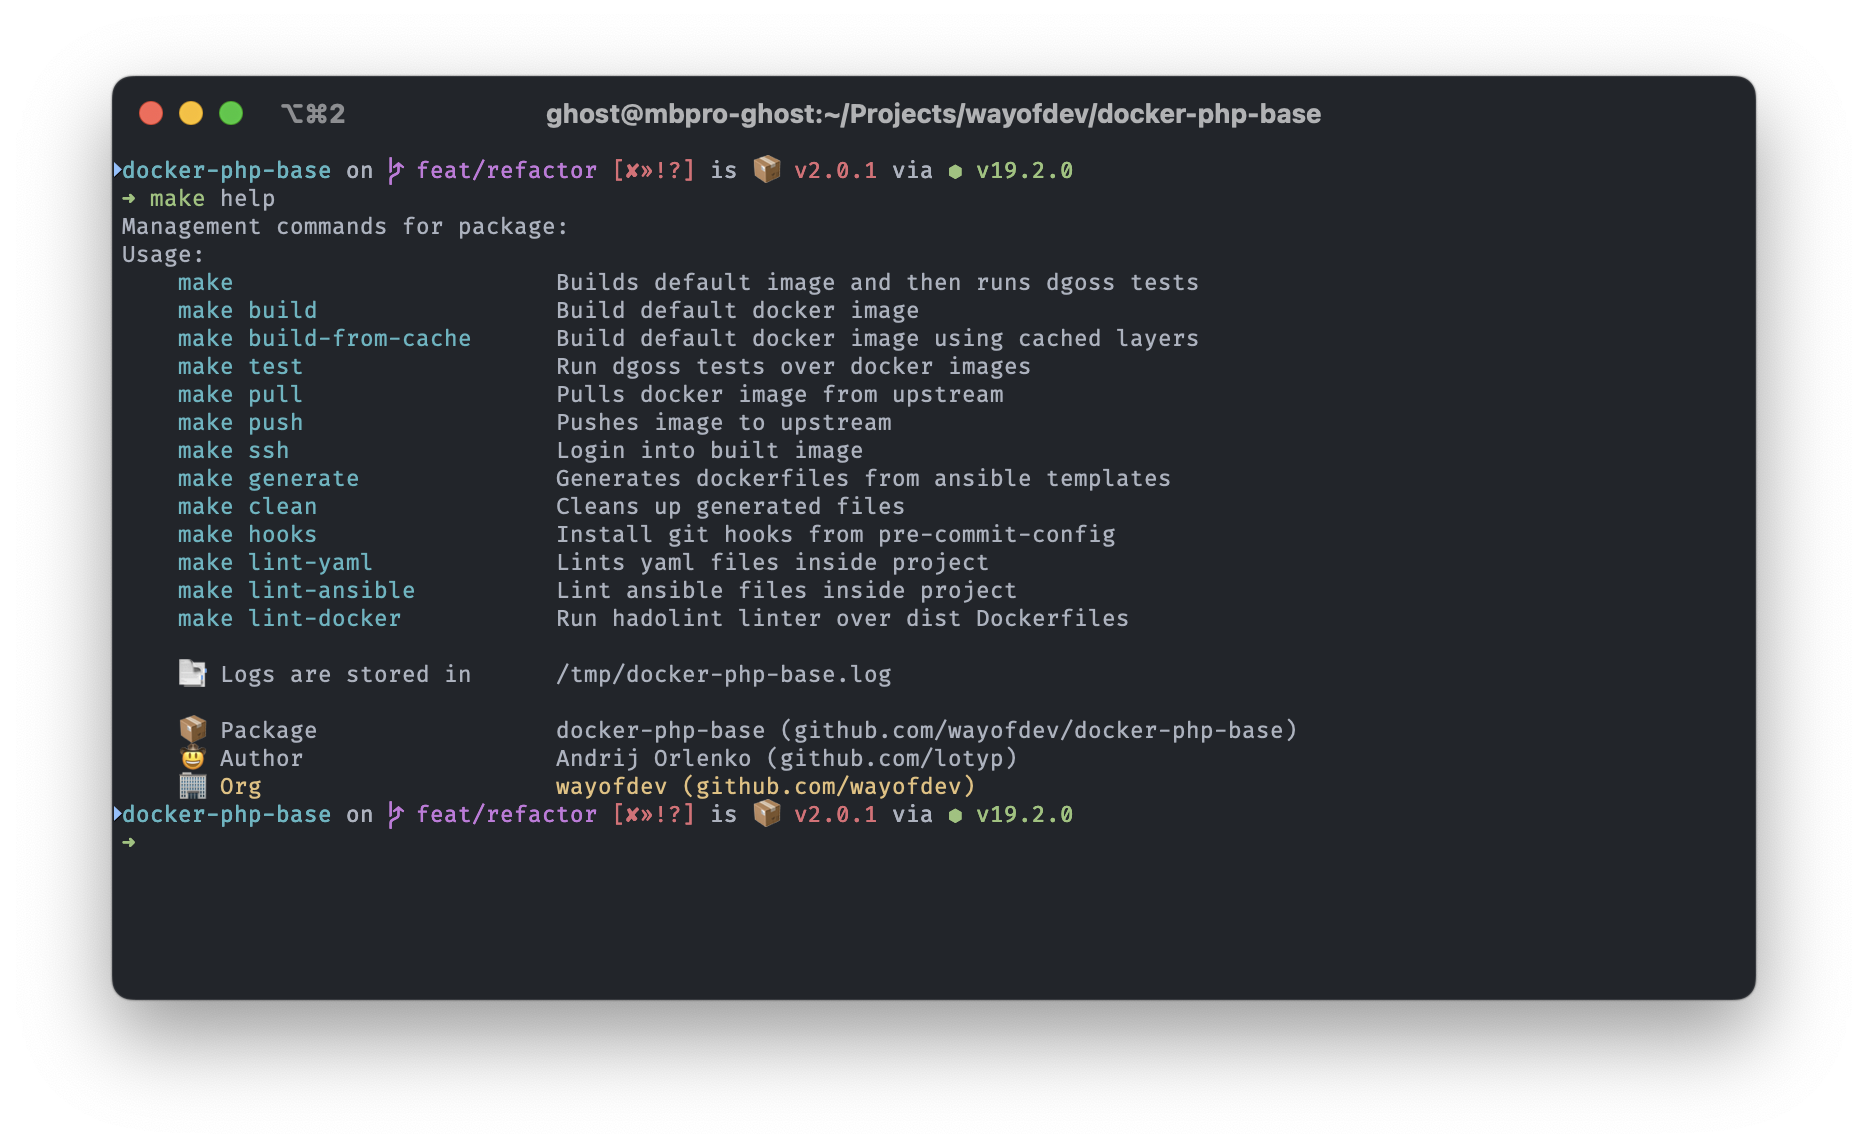
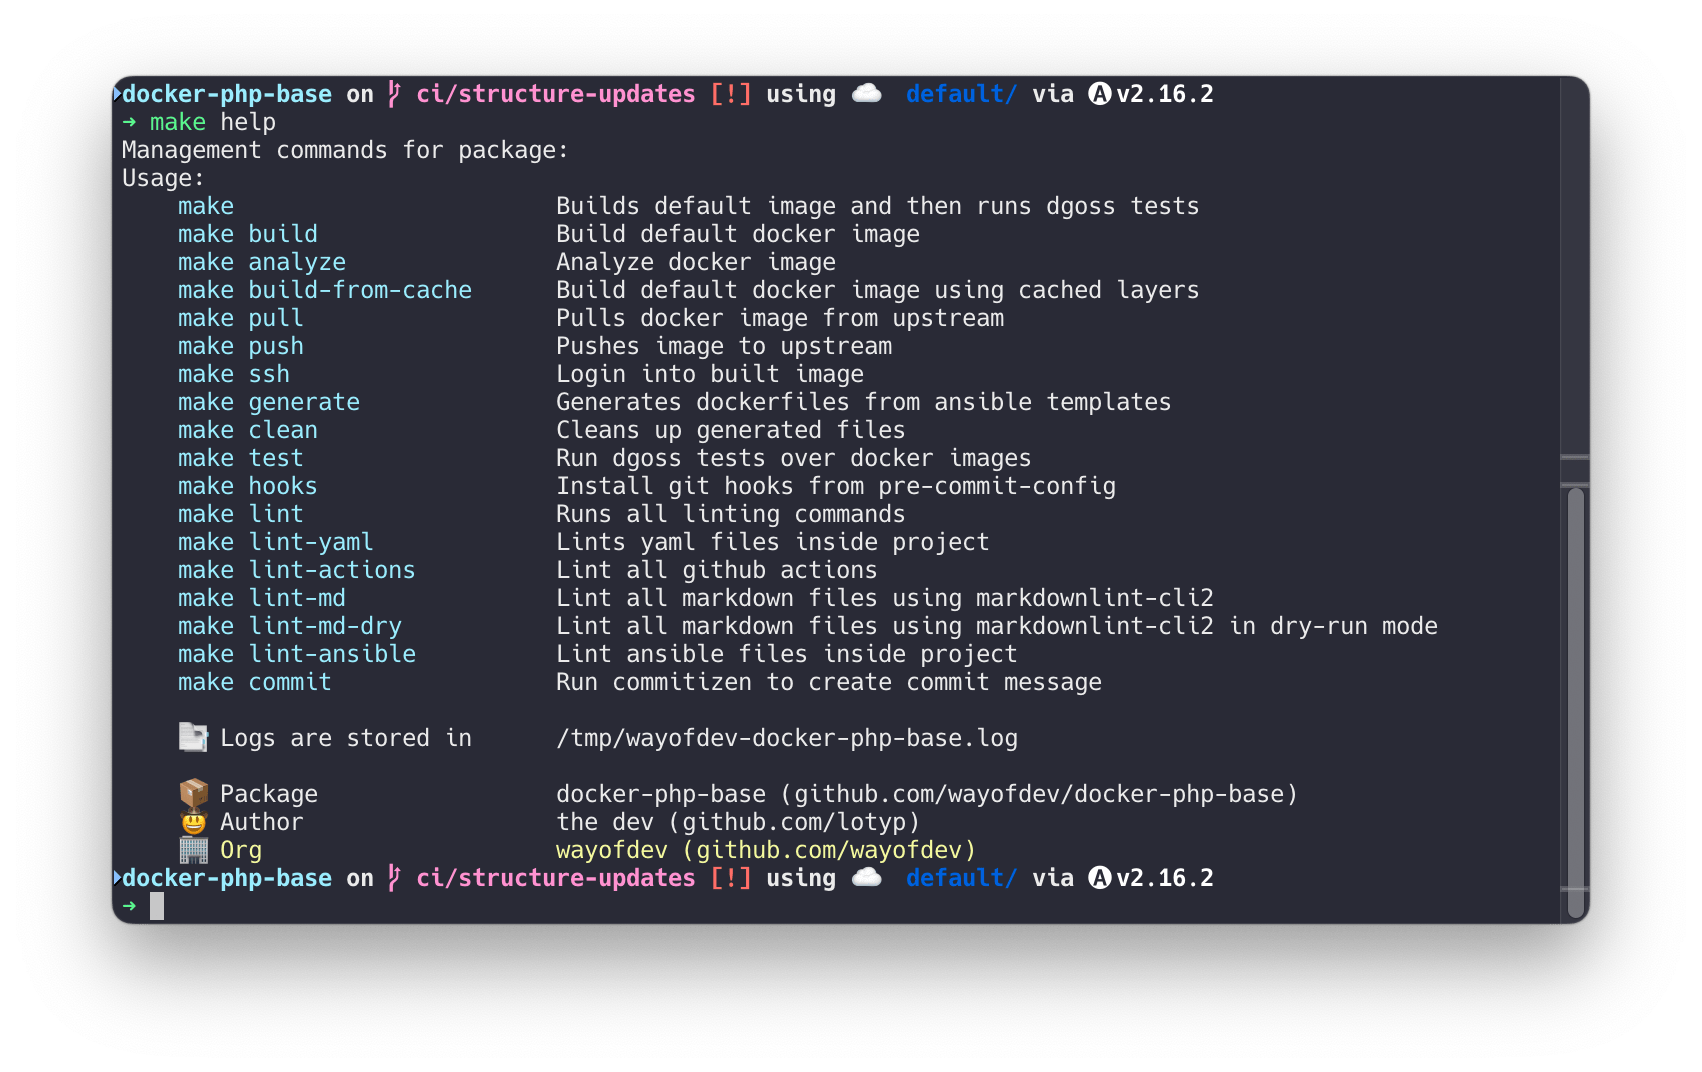
docs: adding contributing guidelines

Changed region(s): [[0.0623, 0.0616, 0.9653, 0.8927], [0.8096, 0.5541, 0.8408, 0.6157]]

diff --git a/.github/CONTRIBUTING.md b/.github/CONTRIBUTING.md
@@ -1,0 +1,294 @@
+# Contributing
+
+Welcome to the docker-php-base project!
+
+We appreciate your interest in contributing. This guide will help you get started, ensuring an effective collaboration.
+
+## 🗂 Table of Contents
+
+* [Introduction](#-introduction)
+* [Development Requirements](#-development-requirements)
+* [Quick Project Setup](#-quick-project-setup)
+* [Using the Makefile](#-using-the-makefile)
+* [Workflow](#-workflow)
+* [Docker Support](#-docker-support)
+* [Continuous Integration with GitHub Actions](#-continuous-integration-with-github-actions)
+* [Before You Contribute](#-before-you-contribute)
+* [Commit Message Guidelines](#-commit-message-guidelines)
+* [Coding Standards](#-coding-standards)
+* [Tests](#-tests)
+* [Pre-commit Hooks](#-pre-commit-hooks)
+
+<br>
+
+## 👋 Introduction
+
+If you would like to contribute, please **open an issue** or a pull request. We are always looking for ways to improve the project and would love to hear your ideas.
+
+The latest changes are always in the **`master`** branch, so please make your Pull Request against that branch.
+
+<br>
+
+## 🚩 Development Requirements
+
+Before you begin, you will need to set up your local development environment. Here is what you'll need:
+
+* **Operating System**: macOS Monterey+, Linux, or Windows with WSL2.
+* **Docker**: Version 26.0.0 or newer.
+* **Ansible**: For generating Dockerfiles and configurations.
+* **goss and dgoss**: For testing Docker images.
+
+Optional tools:
+
+* **Pre-commit**: For running git pre-commit hooks.
+* **Cz-git**: For formatting git commits.
+
+<br>
+
+## 🚀 Quick Project Setup
+
+1. Clone this repository:
+
+   ```bash
+   git clone git@github.com:wayofdev/docker-php-base.git && cd docker-php-base
+   ```
+
+2. Install dependencies and set up the project:
+
+   ```bash
+   make env install
+   ```
+
+<br>
+
+## 🔧 Using the Makefile
+
+This project uses a Makefile to streamline common development tasks. To see available commands, run:
+
+```bash
+make help
+```
+
+![Screenshot](./assets/screenshot.png)
+
+Key commands include:
+
+* `make generate`: Generates Dockerfiles from Ansible templates.
+* `make build`: Builds the Docker image.
+* `make test`: Runs tests on the Docker image.
+* `make lint`: Executes all linting procedures.
+* `make lint-yaml`: Lints YAML files.
+* `make lint-docker`: Lints Dockerfiles.
+* `make lint-ansible`: Lints Ansible files.
+* `make analyze`: Analyzes the Docker image using dive.
+* `make commit`: Runs cz-git, a commitizen adapter for commit message formatting in a native environment.
+
+<br>
+
+## 💻 Workflow
+
+> [!IMPORTANT]
+>
+> Please feature/fix/update... into individual PRs (not one changing everything)
+
+* **Fork the Repository**: Start by forking the repository to your GitHub account.
+* **Create a Branch**: In your fork, create a new branch for your work. Name it appropriately based on the feature, fix, or update you're working on.
+* **Make Your Changes**: Implement your changes
+* **Run Tests**: Ensure all tests pass by running `make test`.
+* **Update Documentation**: If you've made changes that affect the project's documentation, ensure it is updated.
+* **Run Linters**: Ensure your code passes all linting checks using `make lint`.
+* **Commit Your Changes**: Use the [Conventional Commits](#-commit-message-guidelines) standard for your commit messages. You can use `make commit` to assist in creating commit messages.
+* **Push Your Changes**: Push your branch to your fork on GitHub.
+* **Open a Pull Request**: Submit a pull request to the `master` branch of the original repository. Ensure your PR is focused, addressing a single feature, fix, or improvement.
+
+<br>
+
+## 🐳 Docker Support
+
+This project heavily relies on Docker. To build and test images:
+
+```bash
+make build
+make test
+```
+
+<br>
+
+## 🔨 Continuous Integration with GitHub Actions
+
+Our project employs [GitHub Actions](https://github.com/features/actions) for continuous integration, ensuring code quality and reliability. We encourage contributors to review our workflow configurations to understand the CI processes:
+
+| Workflow                                                     | Description                                                         |
+|--------------------------------------------------------------|---------------------------------------------------------------------|
+| [`apply-labels.yml`](workflows/apply-labels.yml)             | Auto labels PRs based on rules.                                     |
+| [`auto-merge-release.yml`](workflows/auto-merge-release.yml) | Automatically merges release PRs.                                   |
+| [`build.yml`](workflows/build.yml)                           | Builds Docker images.                                               |
+| [`coding-standards.yml`](workflows/coding-standards.yml)     | Checks `yaml`, `md`, `composer`, `php` and commit coding standards. |
+| [`create-release.yml`](workflows/create-release.yml)         | Creates a release on GitHub.                                        |
+| [`merge.yml`](workflows/merge.yml)                           | Automatically merges PRs.                                           |
+| [`shellcheck.yml`](workflows/shellcheck.yml)                 | Checks shell scripts.                                               |
+| [`test.yml`](workflows/test.yml)                             | Runs tests on Docker images.                                        |
+| [`upload-assets.yml`](workflows/upload-assets.yml)           | Uploads dist assets to GitHub releases.                             |
+
+<br>
+
+## 📝 Before You Contribute
+
+* **Tests**: Include tests that cover any new features or bug fixes.
+* **Code Quality**: Utilize `make lint` for code style checks.
+* **Documentation**: Update relevant documentation to reflect your changes, ensuring other developers can understand and use your contributions effectively.
+* **Commits**: use Conventional Commits standard to create a commit
+
+<br>
+
+## 📩 Commit Message Guidelines
+
+We follow the [Conventional Commits](https://www.conventionalcommits.org/en/v1.0.0/) standard. Please structure your commit messages as follows, using the appropriate prefix:
+
+**Examples:**
+
+```bash
+git commit -am 'feat: some feature was introduced'
+git commit -am 'fix: something has been fixed'
+```
+
+**Allowed Prefixes:**
+
+| Prefix      | Purpose                                                       |
+|-------------|---------------------------------------------------------------|
+| `feat:`     | Introduces a new feature                                      |
+| `fix:`      | Fixes a bug                                                   |
+| `perf:`     | Improves performance                                          |
+| `docs:`     | Documentation only changes                                    |
+| `style:`    | Code style changes (formatting, missing semi-colons, etc.)    |
+| `deps:`     | Updates dependencies                                          |
+| `refactor:` | Code changes that neither fixes a bug nor adds a feature      |
+| `ci:`       | Changes to our CI configuration files and scripts             |
+| `test:`     | Adding missing tests or correcting existing tests             |
+| `revert:`   | Reverts a previous commit                                     |
+| `build:`    | Changes that affect the build system or external dependencies |
+| `chore:`    | Other changes that don't modify src or test files             |
+| `security:` | A code change that fixes a security issue                     |
+
+<br>
+
+## 🔍 Coding Standards
+
+We use various tools to maintain code quality:
+
+* YAML Lint for YAML files
+* Hadolint for Dockerfiles
+* Ansible Lint for Ansible files
+
+Run `make lint-yaml`, `make lint-docker`, and `make lint-ansible` to check your code.
+
+Thank you for contributing to docker-php-base!
+
+<br>
+
+## 🧪 Tests
+
+We use [goss](https://github.com/goss-org/goss) and [dgoss](https://github.com/aelsabbahy/goss/tree/master/extras/dgoss) for testing our Docker images. These tools allow us to validate the state and behavior of our containers.
+
+### → Running Tests
+
+To run tests on the Docker images, use the following command:
+
+```bash
+make test
+```
+
+This command will build the default image (specified by the `IMAGE_TEMPLATE` variable in the Makefile) and run the goss tests against it.
+
+### → Testing Specific Images
+
+To test a specific image variant, you can specify the `IMAGE_TEMPLATE` variable:
+
+```bash
+make test IMAGE_TEMPLATE="8.3-fpm-alpine"
+```
+
+Replace `8.3-fpm-alpine` with the desired PHP version, type, and OS.
+
+### → Testing All Images
+
+To test all supported image variants, run:
+
+```bash
+make test IMAGE_TEMPLATE="8.1-cli-alpine"
+make test IMAGE_TEMPLATE="8.1-fpm-alpine"
+make test IMAGE_TEMPLATE="8.1-supervisord-alpine"
+make test IMAGE_TEMPLATE="8.2-cli-alpine"
+make test IMAGE_TEMPLATE="8.2-fpm-alpine"
+make test IMAGE_TEMPLATE="8.2-supervisord-alpine"
+make test IMAGE_TEMPLATE="8.3-cli-alpine"
+make test IMAGE_TEMPLATE="8.3-fpm-alpine"
+make test IMAGE_TEMPLATE="8.3-supervisord-alpine"
+```
+
+### → Test Configuration
+
+The goss test configurations are generated from a Jinja2 template located at `src/Dockerfiles/base/goss.yaml.j2`. This template is used by Ansible to generate specific test configurations for each PHP version, type, and OS combination.
+
+### → Writing and Updating Tests
+
+When contributing new features or making changes, please update the `src/Dockerfiles/base/goss.yaml.j2` file. This Jinja2 template defines the tests that will be generated for all image variants. When editing this file:
+
+1. Use Jinja2 syntax for dynamic content that should change based on PHP version, type, or OS.
+2. Ensure your tests cover:
+    * Presence and correctness of installed PHP extensions
+    * Proper configuration of PHP and its extensions
+    * Correct functioning of the PHP environment (CLI, FPM, or Supervisord)
+    * Any additional features or configurations specific to your changes
+
+After updating the template, regenerate the Dockerfiles and test configurations:
+
+```bash
+make generate
+```
+
+This command will use Ansible to process the updated template and generate new test configurations for all image variants.
+
+### → Continuous Integration
+
+Our GitHub Actions workflow (`test.yml`) automatically runs these tests for each pull request and push to the main branch. Ensure that all tests pass in your local environment before submitting a pull request.
+
+Remember, thorough testing is crucial for maintaining the reliability and consistency of our Docker images across different PHP versions and configurations. By updating the central Jinja2 template, we ensure consistency across all our image variants.
+
+<br>
+
+## 📦 Pre-commit Hooks
+
+Pre-commit hooks are an optional but highly recommended way to automate the linting and quality checks before committing changes to the repository. This project provides a predefined configuration that helps in maintaining code quality and consistency.
+
+### → Configured Hooks
+
+Our pre-commit configuration includes several hooks:
+
+* **Trailing Whitespace**: Removes unnecessary trailing spaces.
+* **End-of-File Fixer**: Ensures that files end with a newline.
+* **Fix Encoding Pragma**: Adds or removes the coding pragma line at the top of Python files.
+* **Check Added Large Files**: Prevents accidentally adding large files to the git repository, with a current limit set to 600 KB.
+* **YAML Lint**: Checks YAML files for syntax errors and enforces coding standards using a custom configuration.
+* **Commitizen**: Ensures commit messages meet the conventional commit format. This hook is triggered at the commit message stage.
+* **Action Validator**: Validates GitHub Actions workflow files.
+* **Ansible Lint**: Checks Ansible playbooks for practices and behavior that could potentially be improved.
+* **Ansible Role Checks**: Several hooks to find issues in Ansible roles:
+  * Find unused variables
+  * Find empty files
+  * Find empty directories
+  * Fix readability issues
+  * Find undefined handlers
+  * Find unquoted values
+
+These hooks help maintain code quality, consistency, and prevent common issues before they are committed to the repository.
+
+### → Installing Pre-commit Hooks
+
+To utilize these hooks, you first need to install them using the command provided by the Makefile:
+
+```bash
+make hooks
+```
+
+<br>
